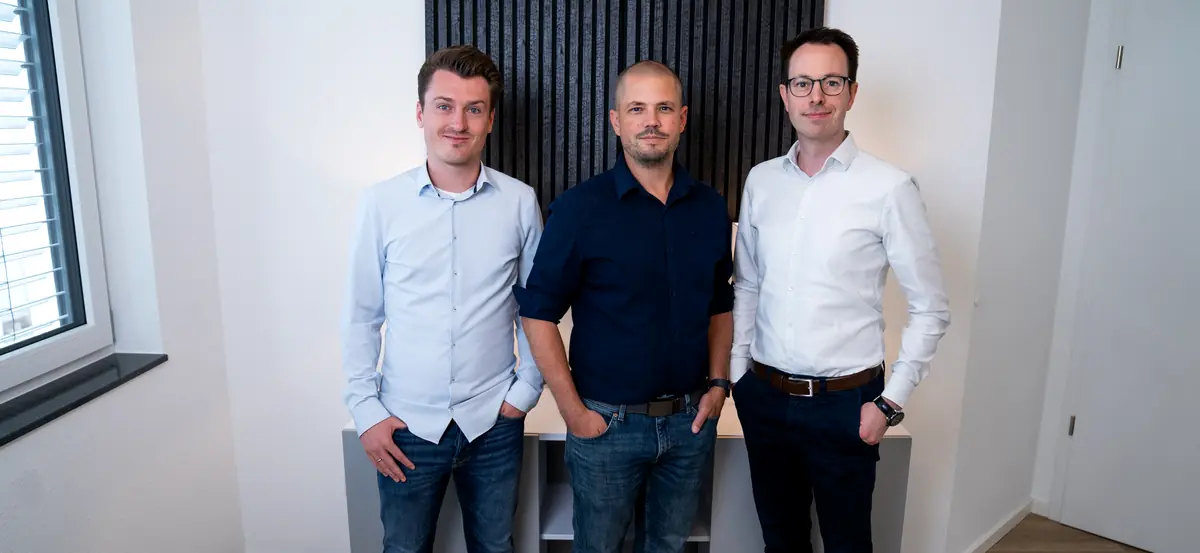
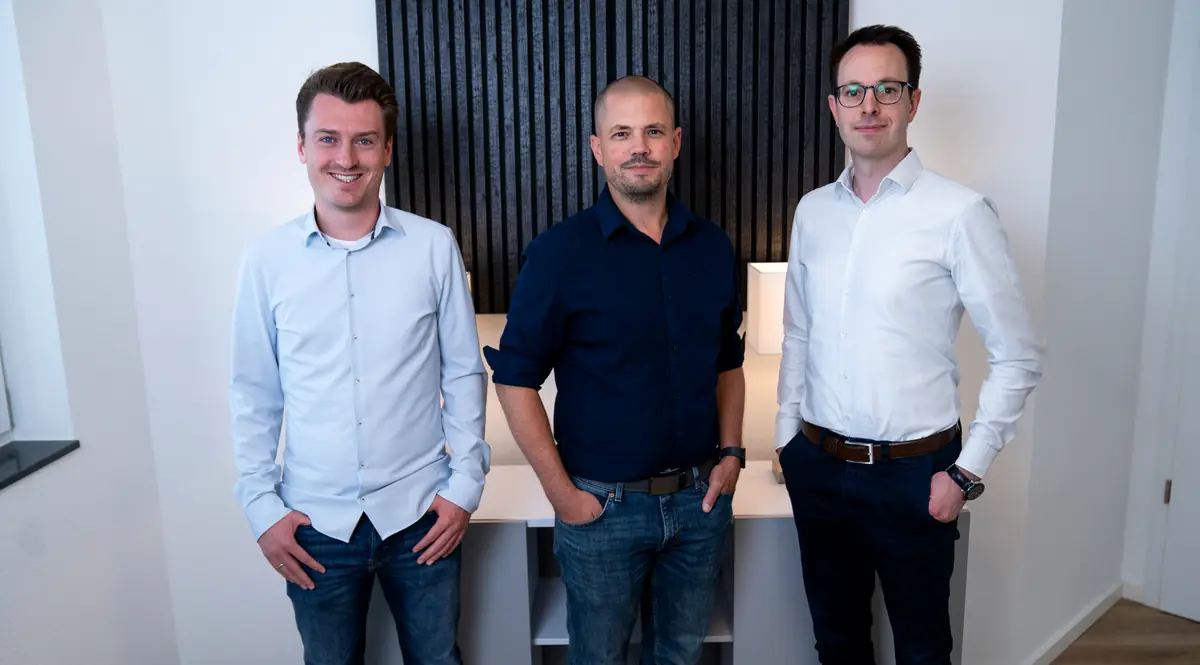
Vorschau: Stand 2026-10-25 18:04

diff --git a/assets/site.css b/assets/site.css
@@ -174,12 +174,12 @@ a:hover > .pf { transform: translateX(3px); }
 @media (min-width: 1101px) {
   .held-start { background: var(--dunkel); min-height: 0; padding: 56px 0 36px; }
   .held-start h1 { font-size: clamp(3rem, 1.2rem + 3.4vw, 4.6rem); margin-bottom: 22px; }
-  .held-start .held-foto { left: 36%; }
-  .held-start .held-foto::after { background: linear-gradient(90deg, var(--dunkel) 0%, rgba(16,16,17,.7) 10%, rgba(16,16,17,.1) 32%, rgba(16,16,17,.05) 100%), linear-gradient(180deg, rgba(16,16,17,.35) 0%, transparent 25%, transparent 62%, rgba(16,16,17,.92) 100%); }
+  .held-start .held-foto { left: 33%; bottom: 96px; }
+  .held-start .held-foto::after { background: linear-gradient(90deg, var(--dunkel) 0%, rgba(16,16,17,.8) 8%, rgba(16,16,17,.1) 25%, rgba(16,16,17,.05) 100%), linear-gradient(180deg, rgba(16,16,17,.35) 0%, transparent 25%, transparent 62%, rgba(16,16,17,.92) 100%); }
   .held-start .held-voll-in { text-align: left; align-items: flex-start; }
   .held-start .held-voll-in > * { max-width: 600px; }
   .held-start .held-cap { margin-top: 28px; }
-  .held-start .lead { margin-left: 0; max-width: 540px; }
+  .held-start .lead { margin-left: 0; max-width: min(540px, 40vw); }
   .held-start .ctas { justify-content: flex-start; }
 }
 .held-unter { min-height: min(70vh, 680px); }

diff --git a/index.html b/index.html
@@ -47,7 +47,7 @@
 <main id="inhalt" tabindex="-1">
 
 <section class="held-voll held-start" aria-labelledby="held-h">
-  <div class="held-foto"><img class="" src="/pzp-vorschau/assets/img/partner-weit-1200.webp" srcset="/pzp-vorschau/assets/img/partner-weit-640.webp 640w, /pzp-vorschau/assets/img/partner-weit-1200.webp 1200w, /pzp-vorschau/assets/img/partner-weit-2000.webp 2000w" sizes="100vw" width="1200" height="553" alt="" style="object-position:57% 30%" fetchpriority="high"></div>
+  <div class="held-foto"><img class="" src="/pzp-vorschau/assets/img/partner-weit-1200.webp" srcset="/pzp-vorschau/assets/img/partner-weit-640.webp 640w, /pzp-vorschau/assets/img/partner-weit-1200.webp 1200w, /pzp-vorschau/assets/img/partner-weit-2000.webp 2000w" sizes="100vw" width="1200" height="665" alt="" style="object-position:48% 25%" fetchpriority="high"></div>
   <div class="w held-voll-in">
     <p class="ort">Kanzlei in Idstein, für das&nbsp;Rhein&#8209;Main&#8209;Gebiet</p>
     <h1 id="held-h"><span class="zl">Steuer- und</span> <span class="zl">Rechtsberatung</span> <span class="zl"><em class="akz">aus einer Hand.</em></span></h1>
